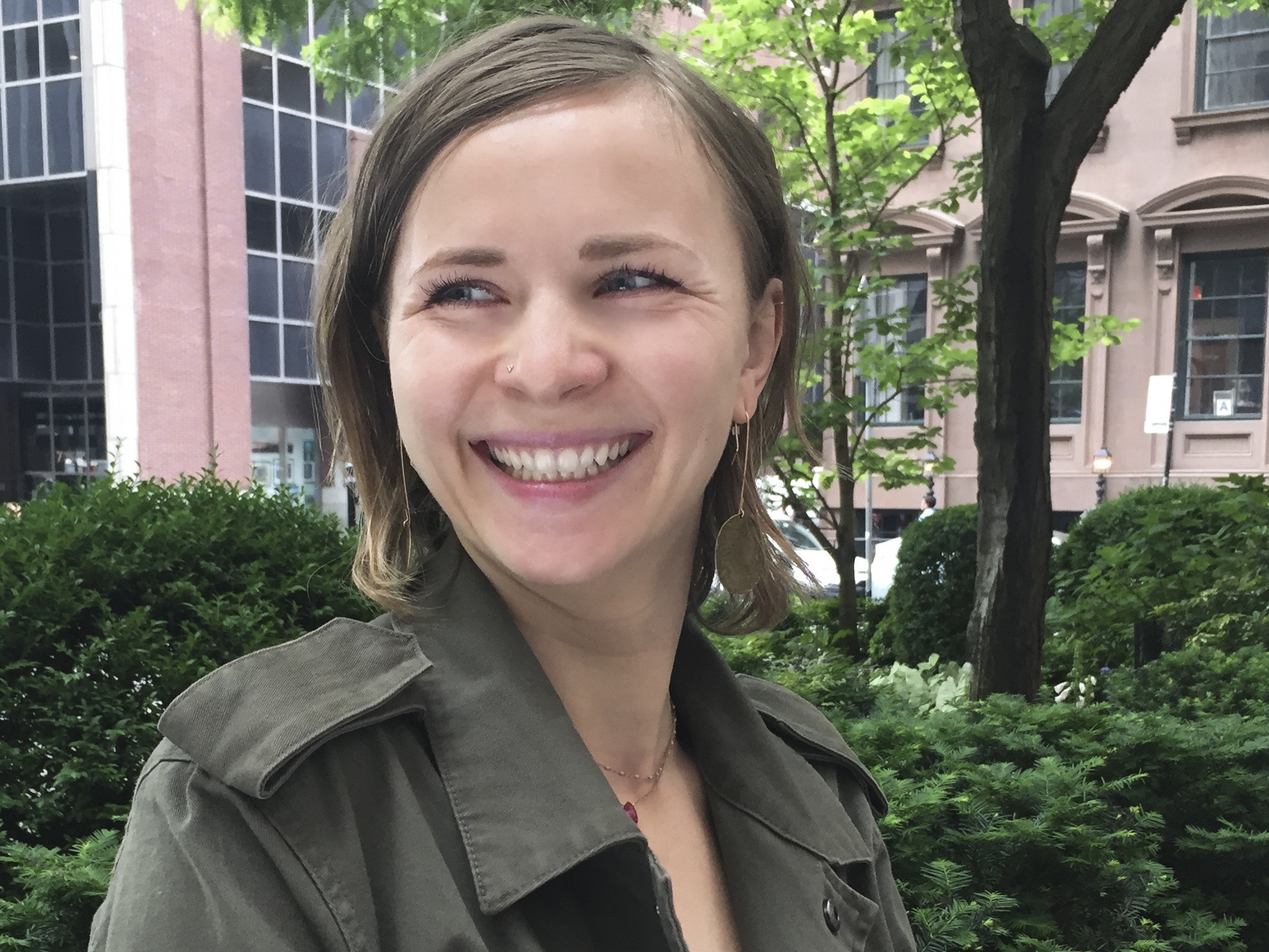
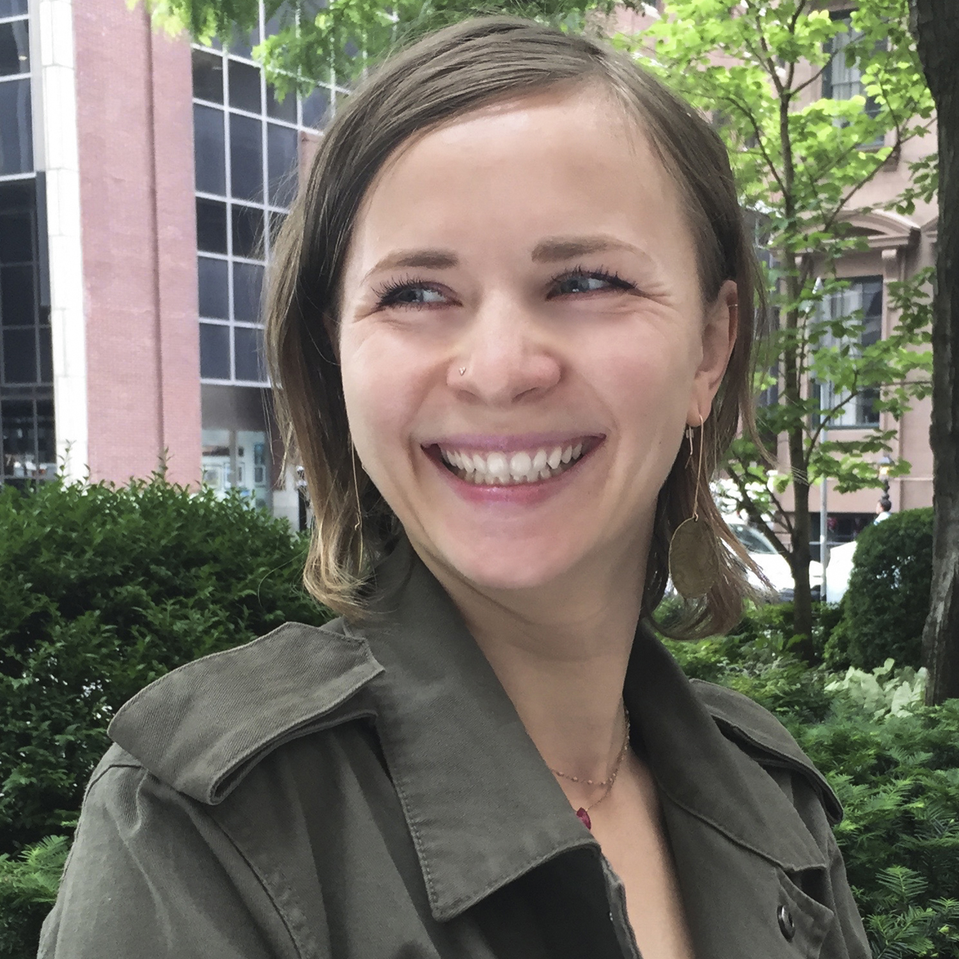
add components

diff --git a/src/components/Main.js b/src/components/Main.js
@@ -10,7 +10,7 @@ export default class Main extends Component {
         <div className='bio'>
           <p>Lorem ipsum dolor sit amet, consectetur adipiscing elit. Maecenas hendrerit elit nec pellentesque interdum. Praesent sed mauris nibh. Fusce facilisis eleifend lectus. Proin pulvinar nunc non nunc vestibulum, id suscipit leo dignissim. Nullam id lectus varius, ultricies justo et, maximus est. Duis nec eleifend orci, id iaculis urna. Etiam vel risus eget elit varius ornare in sit amet leo. Mauris non ultrices lorem. Vivamus sem sapien, accumsan eu dui id, commodo mattis lacus. Ut quis condimentum velit. Quisque mi ligula, consectetur id nisi sit amet, semper lobortis ante. Nullam malesuada id diam ultricies congue. Fusce sem diam, egestas vitae elit id, ultricies fermentum dolor. Etiam lobortis condimentum erat a pretium. Donec a orci tellus.
           </p>
-          <img src={profilePic} className="profile" alt="selfImg" />
+          <img src={profilePic} className="profile bio" alt="selfImg" />
         </div>
       </div>
     );

diff --git a/src/App.js b/src/App.js
@@ -3,14 +3,13 @@ import './App.css';
 //import github from './images/github.svg'
 import Footer from './components/Footer.js'
 import Main from './components/Main.js'
+import Navbar from './components/Navbar.js'
 
 class App extends Component {
   render() {
     return (
       <div className="app">
-        <header className="header">
-          <p>this will be a navbar</p>
-        </header>
+        <Navbar />
         <Main />
         <Footer />
       </div>

diff --git a/src/components/Navbar.js b/src/components/Navbar.js
@@ -1,0 +1,17 @@
+import React, { Component } from 'react'
+import './navbar.css'
+//mport {Link} from 'react-router-dom'
+
+
+export default class Navbar extends Component {
+  render() {
+    return (
+      <div className="navbar">
+        <p>Home</p>
+        <p>Personal</p>
+        <p>Resume</p>
+        <p>Contact</p>
+      </div>
+    );
+  }
+}

diff --git a/src/components/main.css b/src/components/main.css
@@ -1,9 +1,16 @@
 .main {
   min-height: calc(100vh - 70px);
   padding: 40px 50px;
+  color: rgb(94, 91, 91);
+  background-color: rgb(247, 236, 222);
 }
 
 .profile {
-  width: 500px;
+  display: block;
+  width: 200px;
   height: auto;
+  margin-top: 60px;
+  margin-left: auto;
+  margin-right: auto;
+  border-radius:50%;
 }

diff --git a/src/components/footer.css b/src/components/footer.css
@@ -2,7 +2,7 @@
 
 .footer-logos {
   padding:10px;
-  background: rgb(184, 209, 209);
+  background: rgb(168, 168, 149);
   display: flex;
   flex-flow: row-wrap;
   flex-shrink: 1;
